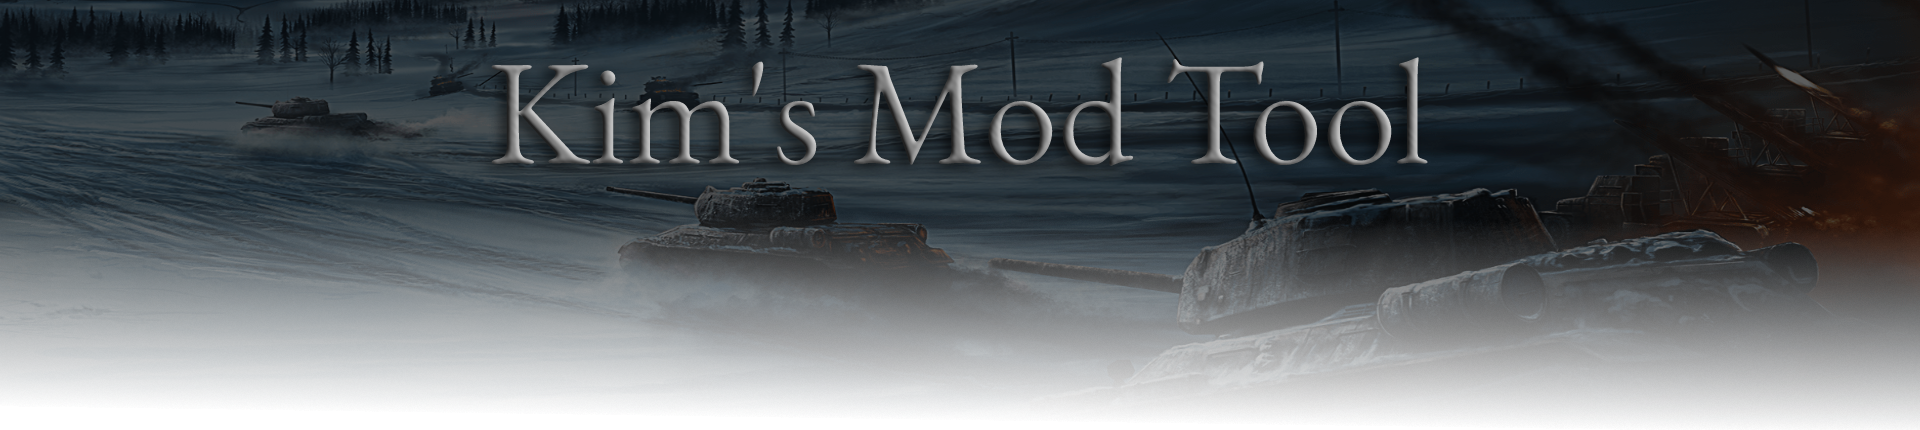
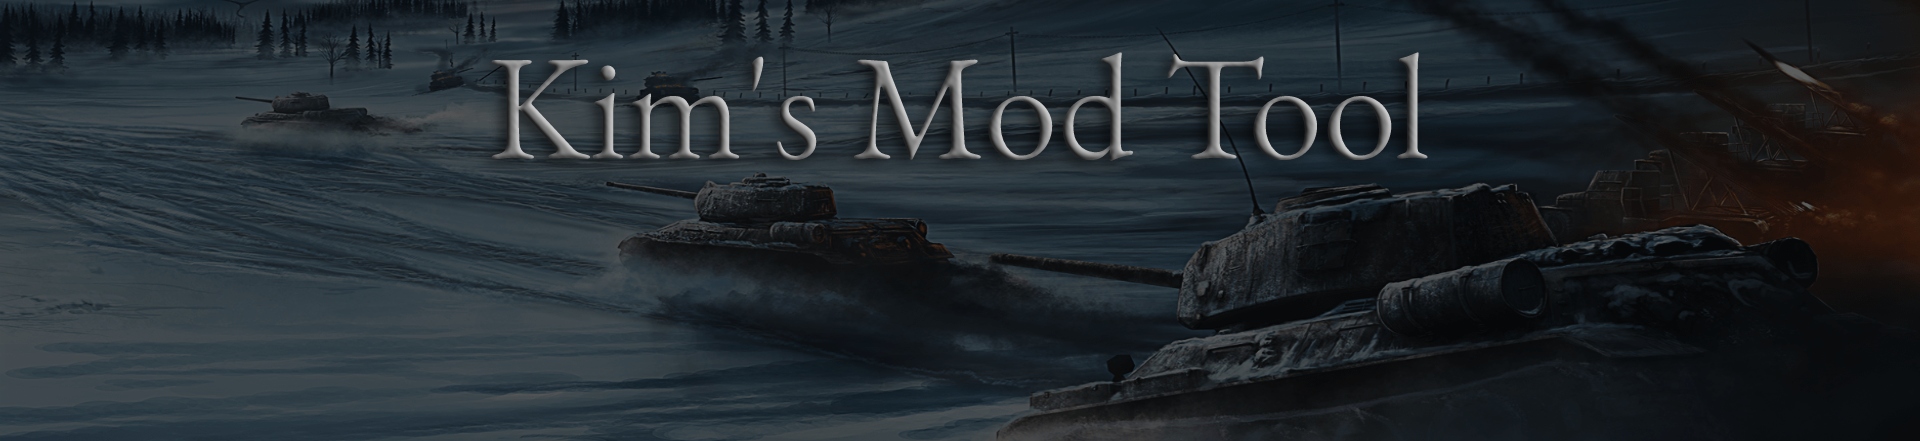
for some reason I have to upload the latest version

diff --git a/style.css b/style.css
@@ -1,18 +1,32 @@
 /* VARIABLES */
 
 :root {
-    --menu_bg-clr: #888;
     --font: Arial, sans-serif;
     --menuButton_colour: #888;
     --downloadButtonColour: rgb(0, 190, 0);
+    --linkColour: #888;
+    --darkTextColour: #888;
+    --normalTextColour: #ddd;
+    --backgroundColour: #333;
+    --divColour: #444;
+    --menuColour: #222;
+    font-size: larger;
 }
 
 body {
     margin: 0;
-    background-color: white;
+    background-color: var(--backgroundColour);
     color: black;
     font-family: var(--font);
-    font-size: 20px;
+    color: var(--normalTextColour);
+}
+
+a {
+    color: var(--darkTextColour);
+}
+
+a:visited {
+    color: var(--darkTextColour);
 }
 
 canvas {
@@ -36,6 +50,7 @@ canvas {
     transition-duration: 0.4s;
     -webkit-transition-duration: 0.4s; /* Safari */
     box-shadow: 0 8px 16px 0 rgba(0,0,0,0.2), 0 6px 20px 0 rgba(0,0,0,0.19);
+    width: 75%;
     border-radius: 8px;
 }
 
@@ -51,33 +66,33 @@ canvas {
     /* position: relative;
     top: 10;
     left: 10%; */
+    color: var(--darkTextColour);
     margin: 0;
     top: 50%;
-    -ms-transform: translateY(-50%);
-    transform: translateY(-50%);
     left: 10px;
-    transition-duration: 0.4s;
-    -webkit-transition-duration: 0.4s; /* Safari */
-}
-
-.downloadButton {
-    background-color: var(--downloadButtonColour);
-    padding: 10px;
 }
 
 button {
-    font-size: 20px;
-    background-color: var(--menuButton_colour);
     transition-duration: 0.4s;
     -webkit-transition-duration: 0.4s; /* Safari */
     border: none;
     border-radius: 4px;
+    background-color: var(--menuColour);
+    font-size: 20px;
 }
 
 button:hover {
     padding-left: 10px;
     padding-right: 10px;
     text-decoration: underline;
+}
+
+.credits {
+    position: absolute;
+    top:100%;
+    -ms-transform: translateY(-100%);
+    transform: translateY(-100%);
+    font-size: small;
 }
 
 .normalFont {
@@ -91,10 +106,16 @@ button:hover {
     width: 100%;
     min-height: 50px;
     height:auto;
-    background-color: var(--menu_bg-clr);
+    background-color: var(--menuColour);
 }
 
-@media all and (min-width: 700px) {
+.downloadButton {
+    background-color: var(--downloadButtonColour);
+    padding: 10px;
+    width: 25%;
+}
+
+@media all and (min-width: 500px) {
     /* .mainBody {
         
     } */
@@ -105,13 +126,8 @@ button:hover {
         height:auto;
     }
 
-
-    /* button {
-        font-size: 40px;
+    .downloadMenuImg {
+        width: 25%;
     }
-
-    body {
-        font-size: 40px;
-    }
-     */
+     
 }

diff --git a/products/HOI4tool.html b/products/HOI4tool.html
@@ -7,7 +7,16 @@
         <script src="../js/navBarDownloads.js"></script>
     </head>
     <body>
-        <img src="../images/HOImodtool/banner.png" width="100%"></img>
+
+        <style>
+            .banner {
+                background-image: url('../images/HOImodtool/banner.png');
+                width: 100%;
+                box-shadow: 0 0 8px 8px var(--backgroundColour) inset;
+            }
+        </style>
+
+        <div class="banner" width="100%"><img src='../images/HOImodtool/banner.png'></div>
         <div class="mainBody">
             <div class="innerBody">
                 <h2>What is the HOI4 Modding Tool?</h2>
@@ -21,7 +30,8 @@
                         <li>Ideology editing</li>
                     </lu>
                 </p><br>
-                <a href="DOWNLOAD LINK GOES HERE"></ahref><button class="downloadButton">Download here &darr;</button></a>
+                <a href="INSTALLER LINK HERE"><button class="downloadButton">Download installer &darr;</button></a><br><br>
+                <a href="GITHUB LINK">View the GitHub repository</a>
                 <h2>How to use and install (outdated)</h2><br>
                 <!-- To be changed (obviously) -->
                 <iframe width="560" height="315" src="https://www.youtube.com/embed/ZKh-pLHqdA8" title="YouTube video player" frameborder="0" allow="accelerometer; autoplay; clipboard-write; encrypted-media; gyroscope; picture-in-picture" allowfullscreen></iframe>

diff --git a/js/navBar.js b/js/navBar.js
@@ -6,19 +6,22 @@ var navBar = `
                 <img height=40; width=auto style="padding-top:5px; padding-left:5px;" src="images/logo.png" alt="logo">
             </td>
             <td>
-                <a href="index.html" class="menuButton"><button>Home page</button></a>
+                <a href="index.html"><button class="menuButton">Home page</button></a>
             </td>
             <td>
-                <a href="downloads.html" class="menuButton"><button>Downloads</button></a>
+                <a href="downloads.html"><button class="menuButton">Downloads</button></a>
             </td>
             <td>
-                <a href="suggest.html" class="menuButton"><button>Suggestions</button></a>
+                <a href="suggest.html"><button class="menuButton">Suggestions</button></a>
             </td>
             <td>
-                <a href="T&C.html" class="menuButton"><button>Terms and Conditions</button></a>
+                <a href="T&C.html"><button class="menuButton">Terms and Conditions</button></a>
             </td>
         </tr>
     </table>
+</div>
+<div class="credits">
+    <p>Website by anyzooka#3945</p>
 </div>
 `
 

diff --git a/js/navBarDownloads.js b/js/navBarDownloads.js
@@ -6,16 +6,16 @@ var navBar = `
                 <img height=40; width=auto style="padding-top:5px; padding-left:5px;" src="../images/logo.png" alt="logo">
             </td>
             <td>
-                <a href="../index.html" class="menuButton"><button>Home page</button></a>
+                <a href="../index.html"><button class="menuButton">Home page</button></a>
             </td>
             <td>
-                <a href="../downloads.html" class="menuButton"><button>Downloads</button></a>
+                <a href="../downloads.html"><button class="menuButton">Downloads</button></a>
             </td>
             <td>
-                <a href="../suggest.html" class="menuButton"><button>Suggestions</button></a>
+                <a href="../suggest.html"><button class="menuButton">Suggestions</button></a>
             </td>
             <td>
-                <a href="../T&C.html" class="menuButton"><button>Terms and Conditions</button></a>
+                <a href="../T&C.html"><button class="menuButton">Terms and Conditions</button></a>
             </td>
         </tr>
     </table>

diff --git a/downloads.html b/downloads.html
@@ -11,7 +11,7 @@
             <h1 class="mHeader">Downloads</h1>
             <div class="innerBody">
                 <div id="downloads">
-                    <a href="products/HOI4tool.html"><img class="downloadMenuImg" src="images/HOImodtool/largeBanner.png" width="25%"></a>
+                    <a href="products/HOI4tool.html"><img class="downloadMenuImg" src="images/HOImodtool/largeBanner.png"></a>
                 </div>
             </div>
         </div>
